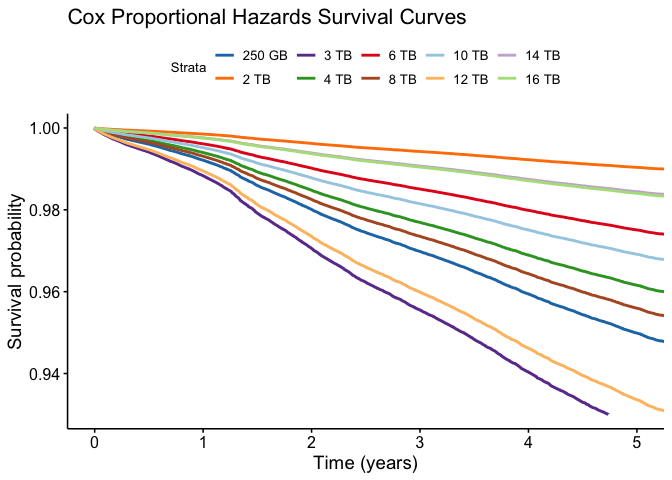
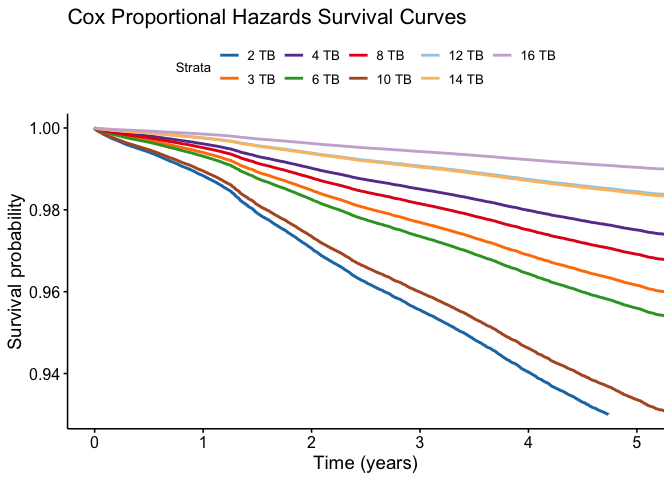
change to 1200

diff --git a/README.md b/README.md
@@ -33,14 +33,14 @@ The top 25 drives from this analysis are:
 
 <table>
 <colgroup>
-<col style="width: 37%" />
+<col style="width: 26%" />
 <col style="width: 6%" />
-<col style="width: 5%" />
+<col style="width: 6%" />
+<col style="width: 12%" />
 <col style="width: 10%" />
-<col style="width: 8%" />
-<col style="width: 11%" />
-<col style="width: 8%" />
-<col style="width: 11%" />
+<col style="width: 13%" />
+<col style="width: 10%" />
+<col style="width: 13%" />
 </colgroup>
 <thead>
 <tr class="header">
@@ -256,17 +256,6 @@ The top 25 drives from this analysis are:
 <td style="text-align: left;">98.97%</td>
 </tr>
 <tr class="odd">
-<td style="text-align: left;">seagate barracuda 120 ssd
-za250cm10003</td>
-<td style="text-align: left;">250 GB</td>
-<td style="text-align: right;">1116</td>
-<td style="text-align: right;">520511</td>
-<td style="text-align: right;">13</td>
-<td style="text-align: left;">98.65%</td>
-<td style="text-align: left;">99.21%</td>
-<td style="text-align: left;">99.54%</td>
-</tr>
-<tr class="even">
 <td style="text-align: left;">wdc wuh721816ale6l4</td>
 <td style="text-align: left;">16 TB</td>
 <td style="text-align: right;">1200</td>
@@ -276,7 +265,7 @@ za250cm10003</td>
 <td style="text-align: left;">99.79%</td>
 <td style="text-align: left;">99.97%</td>
 </tr>
-<tr class="odd">
+<tr class="even">
 <td style="text-align: left;">st12000nm0007</td>
 <td style="text-align: left;">12 TB</td>
 <td style="text-align: right;">38838</td>
@@ -285,16 +274,6 @@ za250cm10003</td>
 <td style="text-align: left;">98.36%</td>
 <td style="text-align: left;">98.44%</td>
 <td style="text-align: left;">98.52%</td>
-</tr>
-<tr class="even">
-<td style="text-align: left;">hitachi hds723030ala640</td>
-<td style="text-align: left;">3 TB</td>
-<td style="text-align: right;">1048</td>
-<td style="text-align: right;">1495337</td>
-<td style="text-align: right;">73</td>
-<td style="text-align: left;">98.30%</td>
-<td style="text-align: left;">98.65%</td>
-<td style="text-align: left;">98.93%</td>
 </tr>
 <tr class="odd">
 <td style="text-align: left;">st4000dm000</td>
@@ -305,6 +284,26 @@ za250cm10003</td>
 <td style="text-align: left;">98.01%</td>
 <td style="text-align: left;">98.10%</td>
 <td style="text-align: left;">98.18%</td>
+</tr>
+<tr class="even">
+<td style="text-align: left;">toshiba mg08aca16te</td>
+<td style="text-align: left;">16 TB</td>
+<td style="text-align: right;">6012</td>
+<td style="text-align: right;">1395055</td>
+<td style="text-align: right;">66</td>
+<td style="text-align: left;">97.82%</td>
+<td style="text-align: left;">98.28%</td>
+<td style="text-align: left;">98.65%</td>
+</tr>
+<tr class="odd">
+<td style="text-align: left;">wdc wd30efrx</td>
+<td style="text-align: left;">3 TB</td>
+<td style="text-align: right;">1335</td>
+<td style="text-align: right;">1365902</td>
+<td style="text-align: right;">174</td>
+<td style="text-align: left;">95.88%</td>
+<td style="text-align: left;">96.45%</td>
+<td style="text-align: left;">96.94%</td>
 </tr>
 </tbody>
 </table>
@@ -322,18 +321,18 @@ za250cm10003</td>
     of the 5-year survival rate
 
 To narrow down the data, we can just look at the best drive by size
-(excluding models that have fewer than 1000):
+(excluding models that have fewer than 1200):
 
 <table>
 <colgroup>
-<col style="width: 37%" />
+<col style="width: 27%" />
 <col style="width: 6%" />
-<col style="width: 4%" />
+<col style="width: 5%" />
+<col style="width: 12%" />
 <col style="width: 10%" />
-<col style="width: 8%" />
-<col style="width: 11%" />
-<col style="width: 8%" />
-<col style="width: 11%" />
+<col style="width: 13%" />
+<col style="width: 10%" />
+<col style="width: 13%" />
 </colgroup>
 <thead>
 <tr class="header">
@@ -437,17 +436,6 @@ To narrow down the data, we can just look at the best drive by size
 <td style="text-align: left;">98.67%</td>
 <td style="text-align: left;">98.83%</td>
 <td style="text-align: left;">98.97%</td>
-</tr>
-<tr class="even">
-<td style="text-align: left;">seagate barracuda 120 ssd
-za250cm10003</td>
-<td style="text-align: left;">250 GB</td>
-<td style="text-align: right;">1116</td>
-<td style="text-align: right;">520511</td>
-<td style="text-align: right;">13</td>
-<td style="text-align: left;">98.65%</td>
-<td style="text-align: left;">99.21%</td>
-<td style="text-align: left;">99.54%</td>
 </tr>
 </tbody>
 </table>
